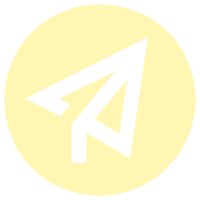
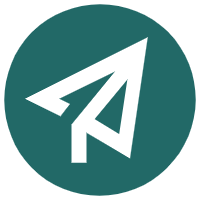
update

diff --git a/custom-tab-bar/index.js b/custom-tab-bar/index.js
@@ -1,8 +1,8 @@
 // custom-tab-bar/index.js
 Component({
   data: {
-    color: "#515151",
-    selectedColor: "#DAA520",
+    color: "#F9A7A7",
+    selectedColor: "#226967",
     backgroundColor: "#ffffff",
     list: [
       {
